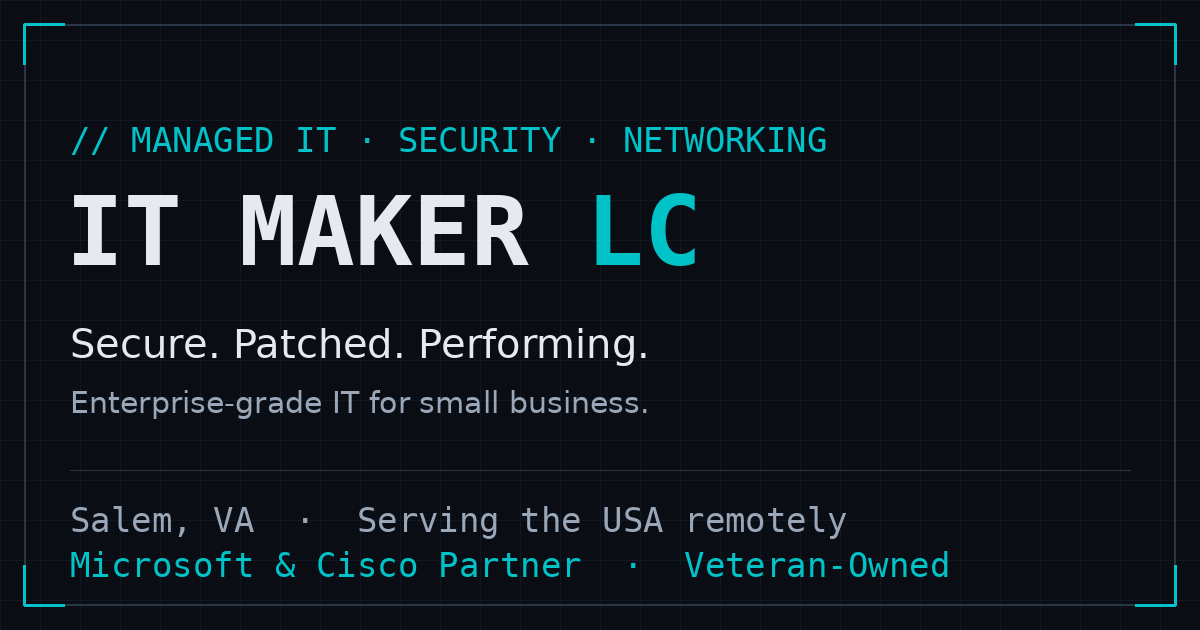
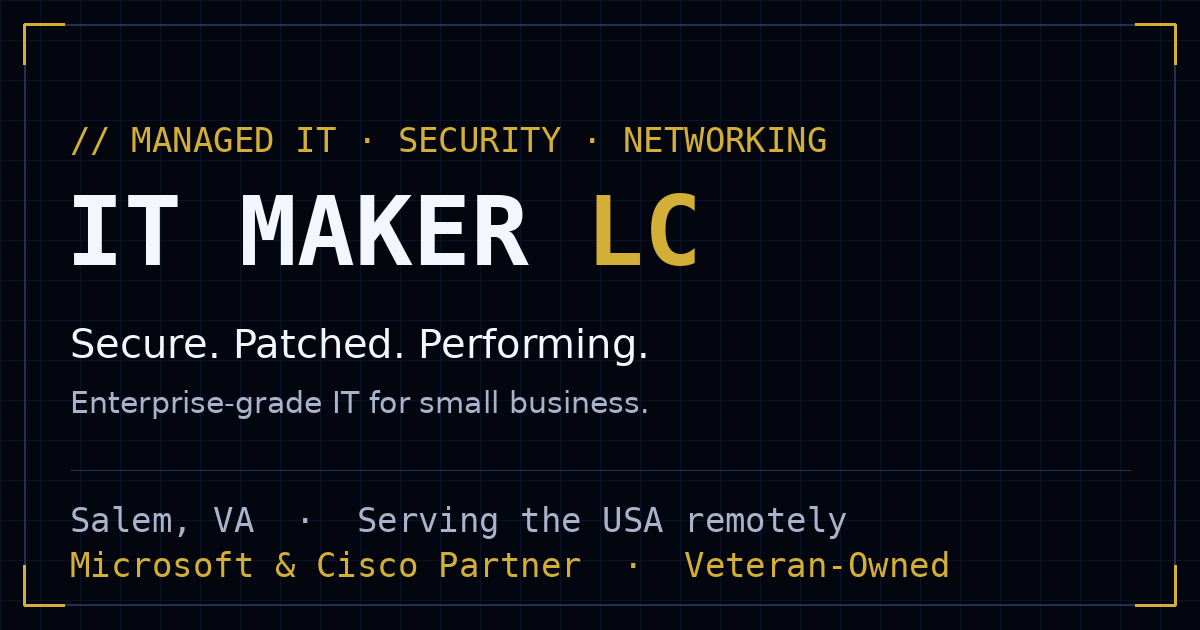
live-theme-updates-2026-07

diff --git a/css/styles.css b/css/styles.css
@@ -23,18 +23,20 @@
 
 /* 1. DESIGN TOKENS ---------------------------------------------------------- */
 :root {
-  /* Color — one accent, used sparingly */
-  --bg:          #0A0E14;  /* page background (near-black) */
-  --surface:     #111722;  /* cards, panels (deep navy) */
-  --surface-2:   #1A2230;  /* raised / hover surfaces */
-  --border:      #2A3546;  /* gunmetal hairlines */
-  --text:        #E6EAF0;  /* primary text */
-  --text-muted:  #9AA7B8;  /* secondary text */
-  --accent:      #00C2C7;  /* electric teal — links, CTAs, focus */
-  --accent-hover:#2FD9DE;
-  --accent-dim:  #0A6E71;  /* subtle accent fills */
+  /* Color — deep Marine navy base + single gold accent, crisp white text */
+  --bg:          #04060F;  /* page background (near-black navy) */
+  --surface:     #0A1026;  /* cards, panels (raised navy) */
+  --surface-2:   #121A33;  /* raised / hover surfaces */
+  --border:      #223053;  /* navy gunmetal hairlines */
+  --text:        #F3F6FD;  /* primary text (crisp near-white) */
+  --text-muted:  #CBD4E2;  /* secondary text (light, near-white for readability) */
+  --accent:      #E8BE3C;  /* military gold — links, CTAs, eyebrows, focus */
+  --accent-hover:#F4CE55;  /* brighter gold on hover */
+  --accent-bright:#FFCE47; /* luminous gold for large display text (hero) */
+  --accent-dim:  #6B5A1E;  /* subtle gold fills */
+  --on-accent:   #0A1428;  /* text ON gold buttons/badges (dark navy) */
   --danger:      #E5484D;  /* error text */
-  --success:     #30A46C;  /* success text */
+  --success:     #46B17E;  /* success text (nudged brighter for navy) */
 
   /* Spacing scale (keep rhythm consistent everywhere) */
   --space-1: 4px;   --space-2: 8px;   --space-3: 12px;  --space-4: 16px;
@@ -130,7 +132,7 @@ section { padding-block: var(--space-8); }
 /* Skip link: hidden until keyboard-focused, then visible top-left */
 .skip-link {
   position: absolute; left: var(--space-3); top: -60px;
-  background: var(--accent); color: #04262A; font-weight: 600;
+  background: var(--accent); color: var(--on-accent); font-weight: 600;
   padding: var(--space-2) var(--space-4); border-radius: var(--radius);
   z-index: 1000; transition: top var(--transition);
 }
@@ -159,17 +161,19 @@ select:focus-visible, textarea:focus-visible {
   color: #FFFFFF; letter-spacing: 0.02em; white-space: nowrap;
 }
 .brand:hover { color: #FFFFFF; }
-.brand .brand-mark { color: var(--accent); }  /* teal accent on the mark */
+.brand .brand-mark { color: var(--accent); }  /* gold accent on the mark */
 
 .nav-links {
   display: flex; align-items: center; gap: var(--space-5); list-style: none;
 }
-.nav-links a {
+/* :not(.btn) so the CTA button keeps its own (button) colors instead of
+   inheriting the muted nav-link color — this was making it hard to read. */
+.nav-links a:not(.btn) {
   color: var(--text-muted); font-size: 0.95rem; font-weight: 500;
   padding-block: var(--space-2);
 }
-.nav-links a:hover,
-.nav-links a[aria-current="page"] { color: var(--text); }
+.nav-links a:not(.btn):hover,
+.nav-links a:not(.btn)[aria-current="page"] { color: var(--text); }
 .nav-links a[aria-current="page"] {
   border-bottom: 2px solid var(--accent); padding-bottom: calc(var(--space-2) - 2px);
 }
@@ -207,10 +211,16 @@ select:focus-visible, textarea:focus-visible {
   border-radius: var(--radius); border: 1px solid transparent;
   cursor: pointer; transition: all var(--transition); white-space: nowrap;
 }
-.btn-primary { background: var(--accent); color: #04262A; }
-.btn-primary:hover { background: var(--accent-hover); color: #04262A; }
+.btn-primary { background: var(--accent); color: var(--on-accent); }
+.btn-primary:hover {
+  background: var(--accent-hover); color: var(--on-accent);
+  transform: translateY(-2px); box-shadow: 0 6px 22px rgba(232,190,60,0.42);
+}
 .btn-ghost { background: transparent; color: var(--text); border-color: var(--border); }
-.btn-ghost:hover { border-color: var(--accent); color: var(--accent); }
+.btn-ghost:hover {
+  border-color: var(--accent); color: var(--accent);
+  transform: translateY(-2px); box-shadow: 0 6px 22px rgba(232,190,60,0.16);
+}
 .btn:disabled { opacity: 0.55; cursor: not-allowed; }
 
 /* 9. EYEBROW LABELS + SECTION HEADERS --------------------------------------- */
@@ -223,6 +233,12 @@ select:focus-visible, textarea:focus-visible {
 .eyebrow::before { content: "// "; color: var(--text-muted); }
 .section-head { max-width: 60ch; margin-bottom: var(--space-6); }
 .section-head p { color: var(--text-muted); margin-top: var(--space-3); }
+/* Short gold tick under section headings for cohesion (not hero/CTA). */
+.section-head h2::after,
+.split h2::after {
+  content: ""; display: block; width: 44px; height: 3px; border-radius: 2px;
+  margin-top: var(--space-3); background: var(--accent);
+}
 
 /* 10. FORMS ----------------------------------------------------------------- */
 .form-grid { display: grid; gap: var(--space-4); }
@@ -299,11 +315,47 @@ select { appearance: none; cursor: pointer; }
 
 /* 13. HOME / SHARED PAGE COMPONENTS ---------------------------------------- */
 /* Hero */
-.hero { padding-block: var(--space-9) var(--space-8); border-bottom: 1px solid var(--border); }
+.hero {
+  padding-block: var(--space-9) var(--space-8); border-bottom: 1px solid var(--border);
+  position: relative; overflow: hidden;   /* contain the animated backdrop */
+}
+.hero > .container { position: relative; z-index: 2; }   /* keep content above backdrop */
+
+/* Backdrop: faint gold glow + tech grid, faded out toward the bottom */
+.hero::before {
+  content: ""; position: absolute; inset: 0; z-index: 0; pointer-events: none;
+  background:
+    radial-gradient(620px 320px at 18% -5%, rgba(232,190,60,0.10), transparent 70%),
+    linear-gradient(rgba(36,52,90,0.22) 1px, transparent 1px) 0 0 / 44px 44px,
+    linear-gradient(90deg, rgba(36,52,90,0.22) 1px, transparent 1px) 0 0 / 44px 44px;
+  -webkit-mask-image: linear-gradient(180deg, #000 55%, transparent 100%);
+          mask-image: linear-gradient(180deg, #000 55%, transparent 100%);
+}
+/* Animated cyber scan-line sweeping down the hero */
+.hero::after {
+  content: ""; position: absolute; left: 50%; top: 50%; z-index: 1; pointer-events: none;
+  width: 240%; height: 2px; transform-origin: center;
+  /* Marine scarlet fading to gold along the line's length */
+  background: linear-gradient(90deg, transparent, #C8102E 28%, var(--accent-bright) 72%, transparent);
+  /* dotted: punch the line into dots so it reads as a rail/telemetry trace */
+  -webkit-mask-image: repeating-linear-gradient(90deg, #000 0 3px, transparent 3px 9px);
+          mask-image: repeating-linear-gradient(90deg, #000 0 3px, transparent 3px 9px);
+  filter: drop-shadow(0 0 6px rgba(255,206,71,0.35));
+  animation: heroScan 6s linear infinite;
+}
+/* rotate() reads --scan-angle (JS randomizes it each pass, so the line crosses
+   from a new angle every sweep); translateY animates the pass across the hero. */
+@keyframes heroScan {
+  0%   { transform: translate(-50%,-50%) rotate(var(--scan-angle, 18deg)) translateY(-190%); opacity: 0; }
+  12%  { opacity: 0.9; }
+  88%  { opacity: 0.9; }
+  100% { transform: translate(-50%,-50%) rotate(var(--scan-angle, 18deg)) translateY(190%); opacity: 0; }
+}
 .hero .eyebrow { margin-bottom: var(--space-4); }
 .hero h1 { max-width: 16ch; }
 /* Terse "briefing" triad headline, mono-flavored accent on key words */
-.hero h1 .hl { color: var(--accent); }
+/* Brighter, luminous gold + faint glow so the big slogan pops on near-black */
+.hero h1 .hl { color: var(--accent-bright); text-shadow: 0 0 24px rgba(255,206,71,0.22); }
 .hero .lead { margin-top: var(--space-4); }
 .hero-actions { display: flex; flex-wrap: wrap; gap: var(--space-3); margin-top: var(--space-6); }
 
@@ -352,10 +404,30 @@ a.card:hover { border-color: var(--accent); background: var(--surface-2); transf
 .check-list li strong { display: block; color: var(--text); }
 
 /* Partner badges (text-based until logo images are added) */
-.partners { display: flex; flex-wrap: wrap; gap: var(--space-4); margin-top: var(--space-5); }
+.partners { display: flex; flex-wrap: wrap; gap: var(--space-6); margin-top: var(--space-5); align-items: flex-start; }
+
+/* Emblem medallions: logo centered on a dark disc inside a gold ring.
+   The ring is the "emblem"; the logo itself is never recolored/cropped
+   (padding gives it clear space per Microsoft/Cisco brand rules). */
+.emblem { display: flex; flex-direction: column; align-items: center; gap: var(--space-2); text-align: center; width: 104px; }
+.emblem-ring {
+  width: 96px; height: 96px; border-radius: 50%;
+  background: var(--surface); border: 2px solid var(--accent);
+  display: flex; align-items: center; justify-content: center;
+  padding: 18px; box-shadow: 0 0 18px rgba(232,190,60,0.12);
+  transition: border-color var(--transition), box-shadow var(--transition);
+}
+.emblem:hover .emblem-ring { border-color: var(--accent-hover); box-shadow: 0 0 24px rgba(232,190,60,0.22); }
+.emblem-ring img { max-width: 100%; max-height: 100%; object-fit: contain; display: block; }
+.emblem-label {
+  font-family: var(--font-mono); font-size: 0.72rem; letter-spacing: 0.06em;
+  text-transform: uppercase; color: var(--text-muted); line-height: 1.3;
+}
+
 .badge {
   font-family: var(--font-mono); font-size: 0.85rem; color: var(--text);
-  border: 1px solid var(--border); border-radius: var(--radius);
+  border: 1px solid var(--border); border-left: 3px solid var(--accent);
+  border-radius: var(--radius);
   padding: var(--space-3) var(--space-4); background: var(--surface);
 }
 .badge b { color: var(--accent); font-weight: 500; }
@@ -392,6 +464,19 @@ a.card:hover { border-color: var(--accent); background: var(--surface-2); transf
 
 /* Values grid (About) reuses .card-grid + .card */
 
+/* RAIL THEME ---------------------------------------------------------------- */
+/* Rail-track divider: two gold rails + ties, faded at the ends. Reusable:
+   <div class="container"><div class="rail" aria-hidden="true"></div></div> */
+.rail {
+  height: 14px; width: 100%; margin-block: var(--space-6); opacity: 0.5;
+  background:
+    linear-gradient(var(--accent), var(--accent)) 0 4px / 100% 1.5px no-repeat,
+    linear-gradient(var(--accent), var(--accent)) 0 9px / 100% 1.5px no-repeat,
+    repeating-linear-gradient(90deg, var(--accent) 0 1.5px, transparent 1.5px 18px) 0 center / 100% 6px no-repeat;
+  -webkit-mask-image: linear-gradient(90deg, transparent, #000 12%, #000 88%, transparent);
+          mask-image: linear-gradient(90deg, transparent, #000 12%, #000 88%, transparent);
+}
+
 /* 14. REDUCED MOTION -------------------------------------------------------- */
 @media (prefers-reduced-motion: reduce) {
   html { scroll-behavior: auto; }
@@ -399,4 +484,5 @@ a.card:hover { border-color: var(--accent); background: var(--surface-2); transf
     animation-duration: 0.01ms !important; animation-iteration-count: 1 !important;
     transition-duration: 0.01ms !important;
   }
+  .hero::after { display: none; }   /* hide the animated scan-line entirely */
 }

diff --git a/js/main.js b/js/main.js
@@ -45,6 +45,22 @@
   var yearEl = document.getElementById("year");
   if (yearEl) { yearEl.textContent = new Date().getFullYear(); }
 
+  /* 2b. HERO SCAN-LINE ANGLE ----------------------------------------------- */
+  // Randomize the scan-line's sweep angle each pass so it crosses the hero from
+  // a new angle every time. The line is a .hero::after pseudo-element; its
+  // animationiteration event bubbles to the .hero element, and it reads the
+  // inherited --scan-angle CSS variable that we update here.
+  (function () {
+    var heroes = document.querySelectorAll(".hero");
+    function randAngle() { return (Math.random() * 76 - 38).toFixed(1) + "deg"; } // -38deg..38deg
+    heroes.forEach(function (h) {
+      h.style.setProperty("--scan-angle", randAngle());
+      h.addEventListener("animationiteration", function (e) {
+        if (e.animationName === "heroScan") h.style.setProperty("--scan-angle", randAngle());
+      });
+    });
+  })();
+
   /* 3. CONTACT FORM HANDLER ------------------------------------------------- */
   var form = document.getElementById("contact-form");
   if (form) {

diff --git a/index.html b/index.html
@@ -21,8 +21,10 @@
   <meta name="twitter:description" content="Secure, managed IT for small businesses — patched, monitored, performing. Salem, VA &amp; nationwide." />
   <meta name="twitter:image" content="https://it.makerlc.com/assets/og-default.png" />
 
-  <meta name="theme-color" content="#0A0E14" />
-  <link rel="icon" href="/favicon-it-maker.ico" type="image/x-icon" />
+  <meta name="theme-color" content="#04060F" />
+  <link rel="icon" type="image/svg+xml" href="/favicon.svg" />
+  <link rel="icon" type="image/x-icon" href="/favicon.ico" />
+  <link rel="apple-touch-icon" href="/apple-touch-icon.png" />
   <link rel="stylesheet" href="css/styles.css" />
 
   <!-- Structured data: Organization + LocalBusiness (no opening hours). -->
@@ -97,6 +99,9 @@
       </div>
     </section>
 
+    <!-- Rail-track divider -->
+    <div class="container"><div class="rail" aria-hidden="true"></div></div>
+
     <!-- ============================ SERVICES OVERVIEW ============================ -->
     <section>
       <div class="container">
@@ -160,6 +165,7 @@
           <div class="partners">
             <span class="badge"><b>Microsoft</b> Partner</span>
             <span class="badge"><b>Cisco</b> Partner</span>
+            <span class="badge"><b>Veteran</b>-Owned</span>
           </div>
         </div>
 

diff --git a/contact.html b/contact.html
@@ -21,8 +21,10 @@
   <meta name="twitter:description" content="Managed IT, networking, security, and automation. Local to Salem, VA; serving the USA remotely." />
   <meta name="twitter:image" content="https://it.makerlc.com/assets/og-default.png" />
 
-  <meta name="theme-color" content="#0A0E14" />
-  <link rel="icon" href="/favicon-it-maker.ico" type="image/x-icon" />
+  <meta name="theme-color" content="#04060F" />
+  <link rel="icon" type="image/svg+xml" href="/favicon.svg" />
+  <link rel="icon" type="image/x-icon" href="/favicon.ico" />
+  <link rel="apple-touch-icon" href="/apple-touch-icon.png" />
   <link rel="stylesheet" href="css/styles.css" />
 
   <!-- Structured data: helps local search understand the business.
@@ -158,7 +160,7 @@
             <div class="info-card">
               <h3>Service area</h3>
               <p class="text-muted"><span class="data-point">Salem & Southwest, VA</span>
-                  - Remote Nationwide - <span class="data-point">USA</span></p>
+                  - Remote Nationwide-<span class="data-point">USA</span></p>
             </div>
             <div class="info-card">
               <h3>Response time</h3>

diff --git a/404.html b/404.html
@@ -6,8 +6,10 @@
   <title>Page not found — IT MAKER LC</title>
   <meta name="description" content="The page you were looking for could not be found." />
   <meta name="robots" content="noindex" />
-  <meta name="theme-color" content="#0A0E14" />
-  <link rel="icon" href="/favicon-it-maker.ico" type="image/x-icon" />
+  <meta name="theme-color" content="#04060F" />
+  <link rel="icon" type="image/svg+xml" href="/favicon.svg" />
+  <link rel="icon" type="image/x-icon" href="/favicon.ico" />
+  <link rel="apple-touch-icon" href="/apple-touch-icon.png" />
   <link rel="stylesheet" href="css/styles.css" />
 </head>
 <body>

diff --git a/about.html b/about.html
@@ -21,8 +21,10 @@
   <meta name="twitter:description" content="Owner-operated IT services and digital agency in Salem, VA. Security-first. Microsoft &amp; Cisco Partner." />
   <meta name="twitter:image" content="https://it.makerlc.com/assets/og-default.png" />
 
-  <meta name="theme-color" content="#0A0E14" />
-  <link rel="icon" href="/favicon-it-maker.ico" type="image/x-icon" />
+  <meta name="theme-color" content="#04060F" />
+  <link rel="icon" type="image/svg+xml" href="/favicon.svg" />
+  <link rel="icon" type="image/x-icon" href="/favicon.ico" />
+  <link rel="apple-touch-icon" href="/apple-touch-icon.png" />
   <link rel="stylesheet" href="css/styles.css" />
 </head>
 <body>

diff --git a/services.html b/services.html
@@ -21,8 +21,10 @@
   <meta name="twitter:description" content="Managed IT, networking, security, AI automation, digital, and resell for small businesses." />
   <meta name="twitter:image" content="https://it.makerlc.com/assets/og-default.png" />
 
-  <meta name="theme-color" content="#0A0E14" />
-  <link rel="icon" href="/favicon-it-maker.ico" type="image/x-icon" />
+  <meta name="theme-color" content="#04060F" />
+  <link rel="icon" type="image/svg+xml" href="/favicon.svg" />
+  <link rel="icon" type="image/x-icon" href="/favicon.ico" />
+  <link rel="apple-touch-icon" href="/apple-touch-icon.png" />
   <link rel="stylesheet" href="css/styles.css" />
 </head>
 <body>

diff --git a/assets/badges/README.md b/assets/badges/README.md
@@ -1,0 +1,18 @@
+# Partner emblem badges
+
+These are **placeholders**. Replace each with the official artwork (keep the same
+filenames, or update the `src` in `index.html` / `about.html`). Transparent PNG or SVG
+works best — the badge frame gives it a dark disc + gold ring, so a logo that reads on
+dark is ideal.
+
+| File | What to drop in | Where to get it |
+|------|-----------------|-----------------|
+| `microsoft.svg` (or .png) | Your official Microsoft partner badge | Partner Center → **Logo Builder** (partner.microsoft.com) |
+| `cisco.svg` (or .png) | Your official Cisco partner logo | **cisco.com/go/partnerbranding** → Partnership Logo Builder (partner login) |
+| `usmc-veteran.svg` (or .png) | The free **USMC Veteran insignia** | Marine Corps Trademark Licensing Office — **trademark.marines.mil** (veteran insignia is free for veteran-owned businesses) |
+
+**Brand-guideline notes:**
+- Don't recolor or distort the Microsoft/Cisco logos. The frame adds the gold ring *around* them, with padding for clear space — the logos themselves stay untouched.
+- Use the USMC **Veteran insignia**, not the Eagle-Globe-Anchor — the EGA needs a paid commercial license; the veteran insignia is provided free for exactly this use.
+
+After replacing a file, hard-refresh (Ctrl+F5) to see it.